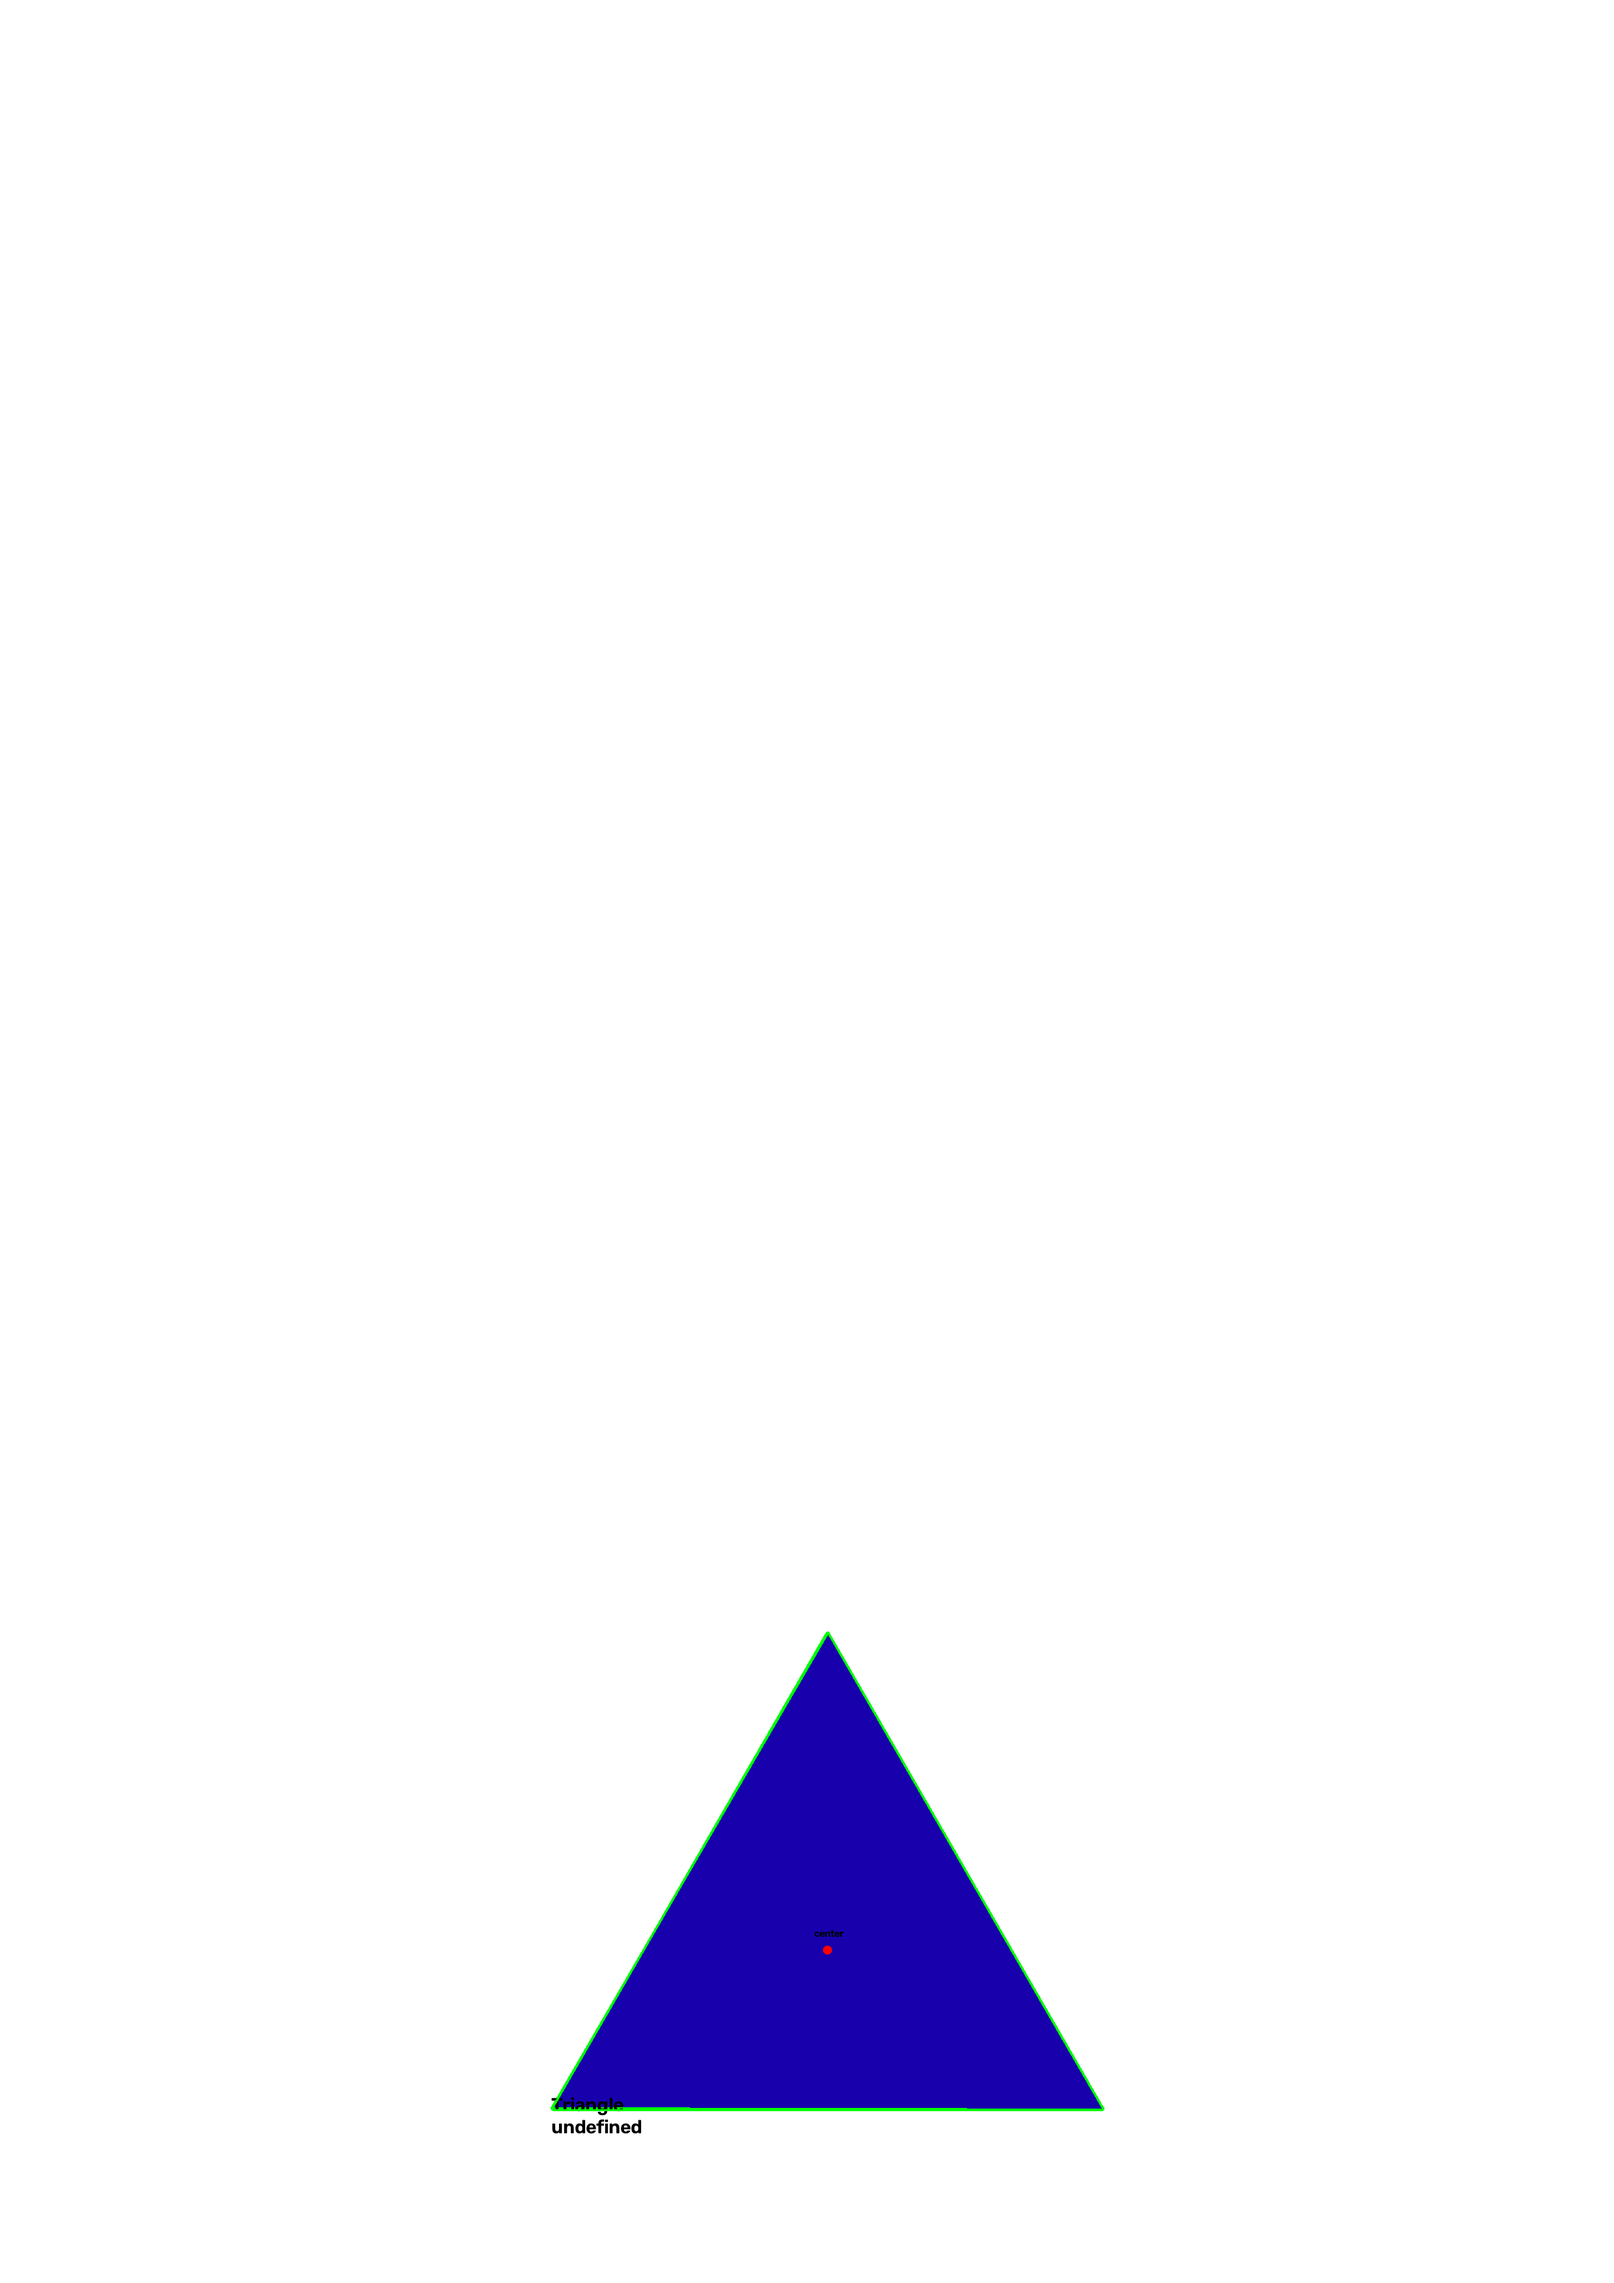
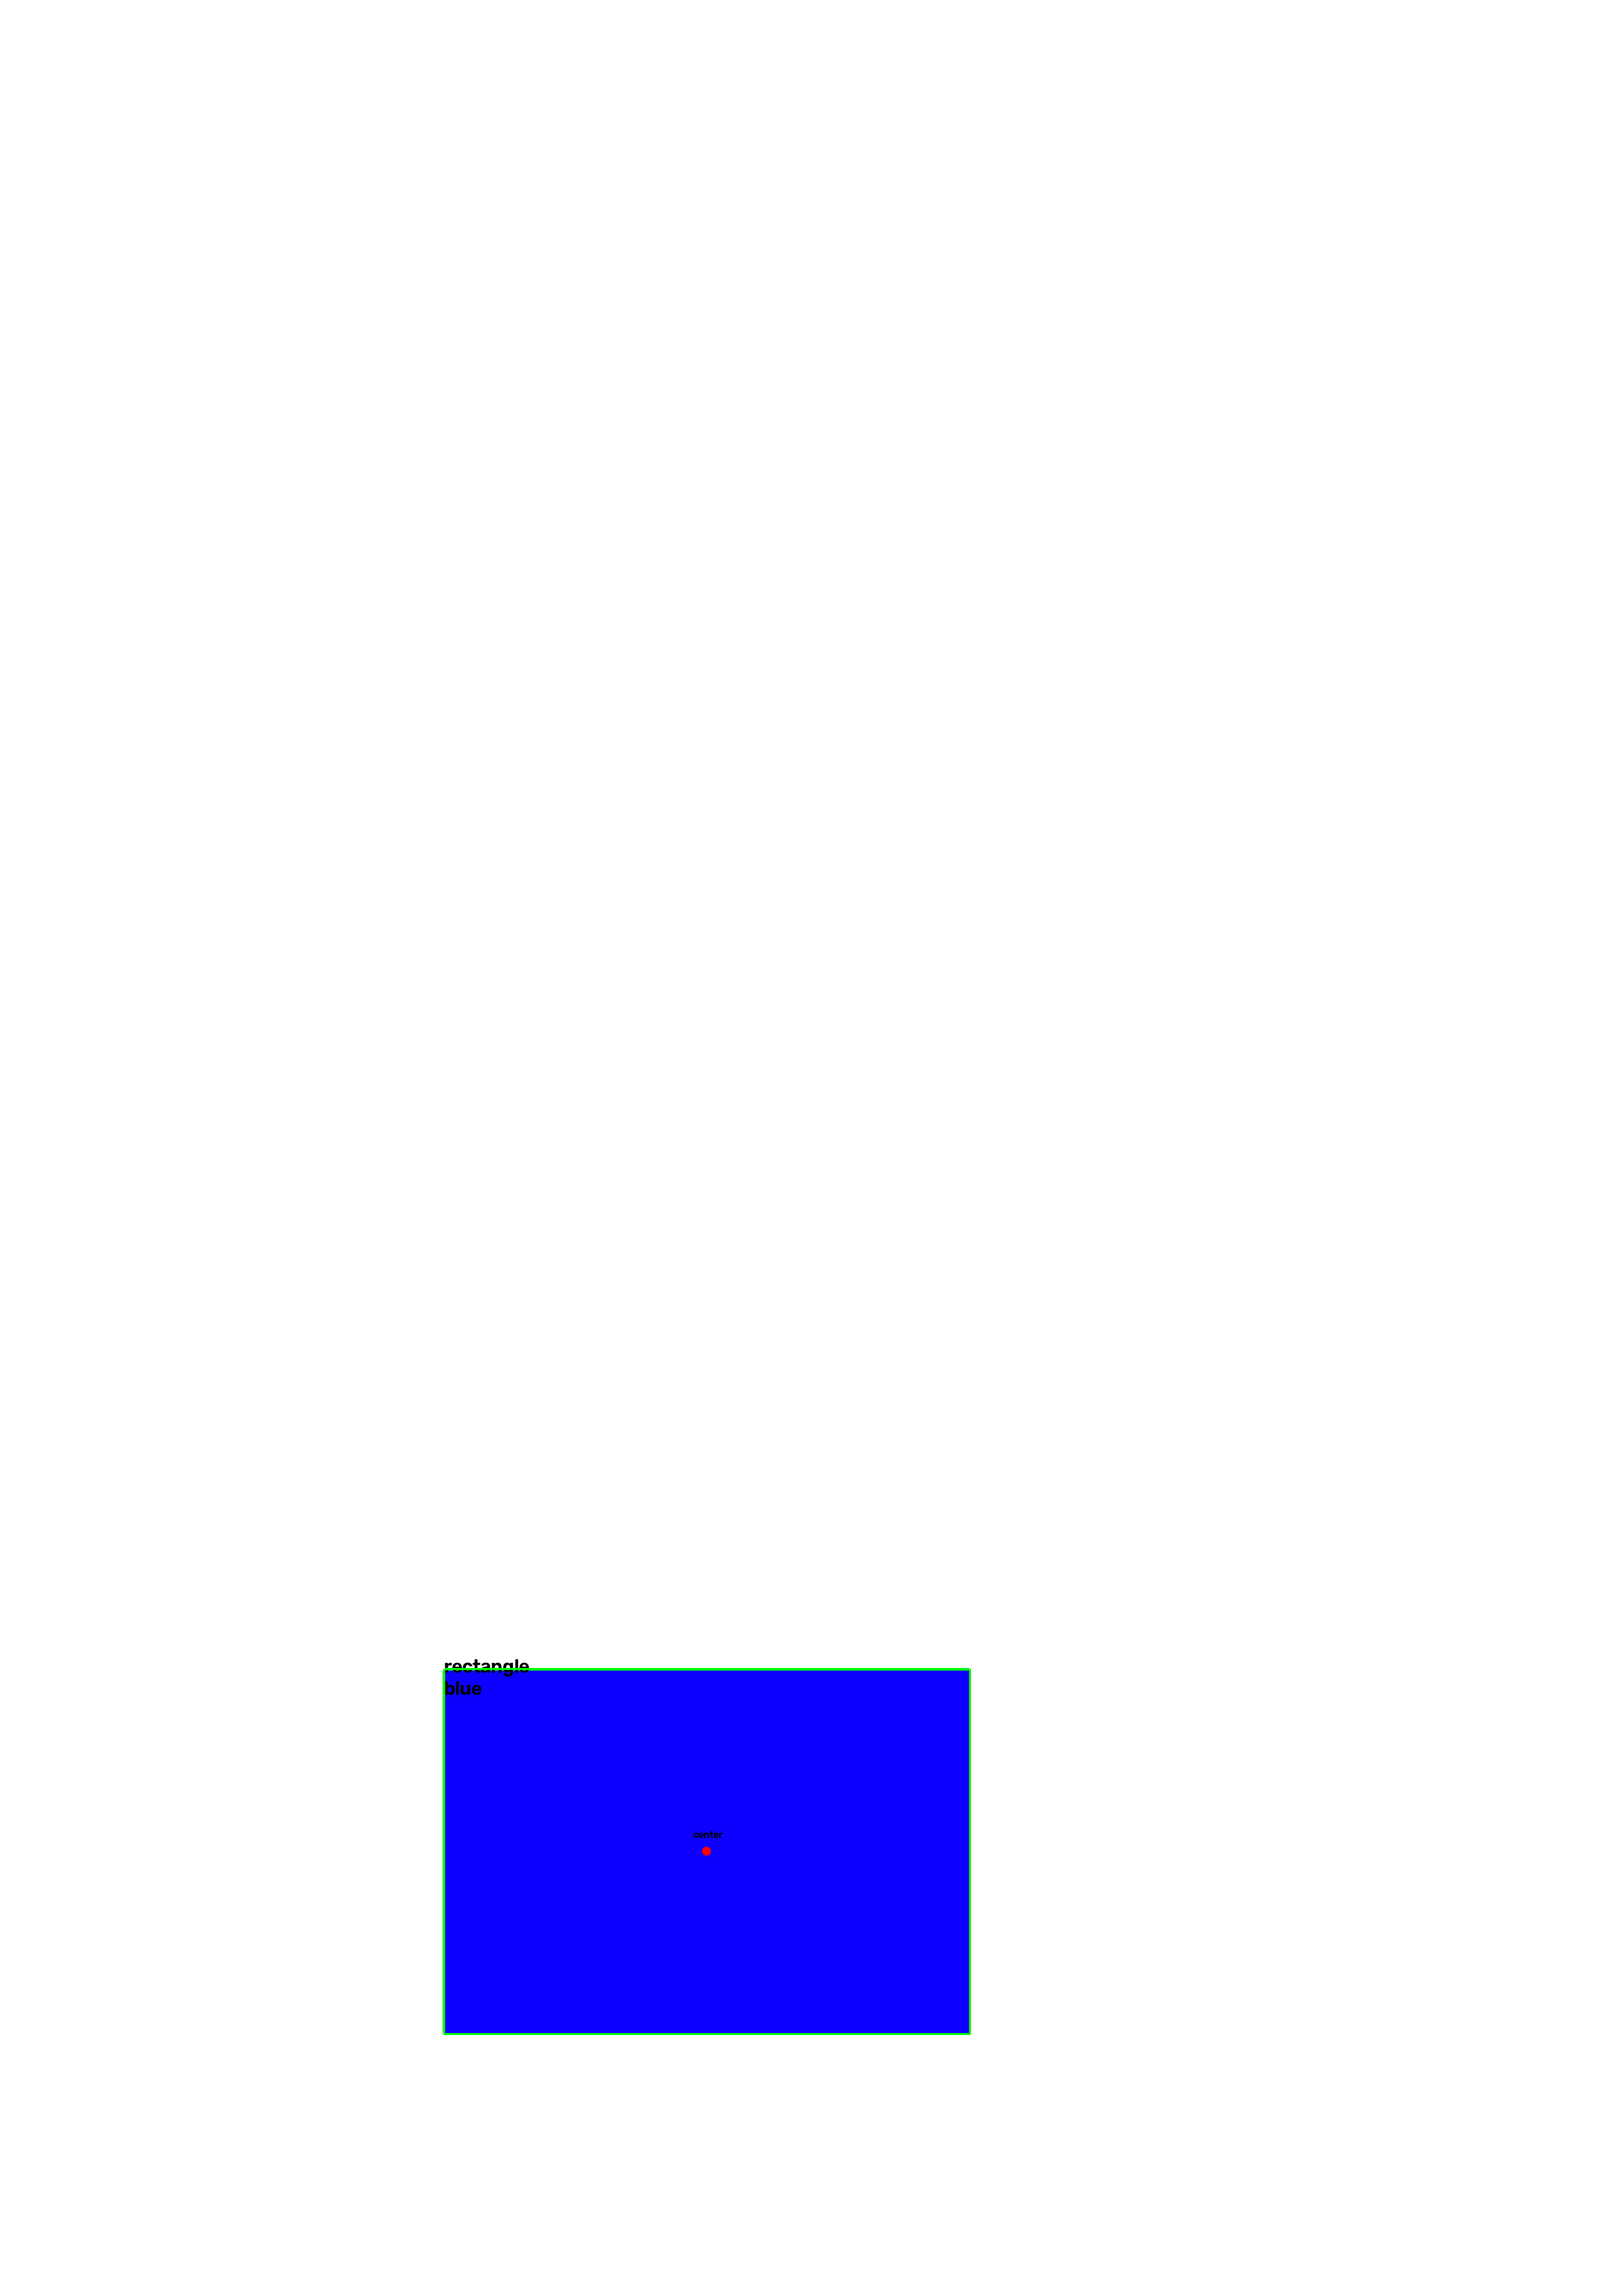
merkez koordinat

Changed region(s): [[0.2484, 0.7147, 0.6831, 0.9322]]

diff --git a/detect.py b/detect.py
@@ -1,7 +1,7 @@
 import cv2 as cv
 import numpy as np
 
-img = cv.imread('data/img6.png')
+img = cv.imread('data/img4.png')
 '''
     adım 1 giren resmi kontürle ve rengini köşesine yaz
 '''
@@ -15,8 +15,6 @@ gray = cv.cvtColor(img, cv.COLOR_BGR2GRAY)
 blur = cv.GaussianBlur(gray, (5, 5), 0)
 
 edges = cv.Canny(blur, 30, 150)
-
-
 
 lower_blue = np.array([110,50,50])
 upper_blue = np.array([130,255,255])
@@ -109,6 +107,16 @@ for pic, contour in enumerate(contours):
     cv.drawContours(img, [approx], 0, (0, 255, 0), 2)
     cv.putText(img, shape + "\n" + color, (approx[0][0][0], approx[0][0][1]+5), cv.FONT_HERSHEY_SIMPLEX, 1, (0, 0, 0), 2)
 
+for i in contours:
+    M = cv.moments(i)
+    if M['m00'] != 0:
+        cx = int(M['m10']/M['m00'])
+        cy = int(M['m01']/M['m00'])
+        cv.drawContours(img, [i], -1, (0, 255, 0), 2)
+        cv.circle(img, (cx, cy), 7, (0, 0, 255), -1)
+        cv.putText(img, "center", (cx - 20, cy - 20),
+                   cv.FONT_HERSHEY_SIMPLEX, 0.5, (0, 0, 0), 2)
+    print(f"x: {cx} y: {cy}")
 
 cv.imwrite('outputs/DetectedShapes.png',img)
 cv.imshow('image',img)
